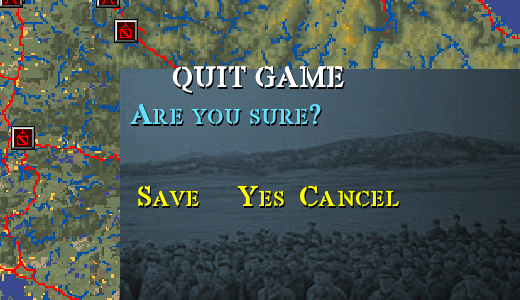
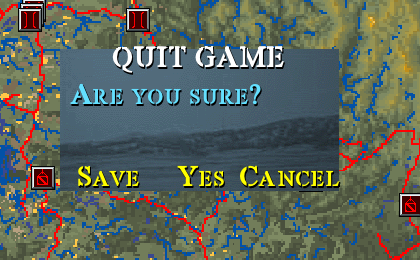
S156 (PO-47): clip the quit dialog's art to the dialog
Reported as "quit dialog is oversized". The dialog was not: the ART was.
RMdlDlg::OnPaint blits its background bitmap (FIL_MAP_ARMY) at natural size --
roughly 535x590 -- while the dialog reports 279x142, which its own trace line
prints on every open. So the message box appeared as a tall black slab with
Save/Yes/Cancel stranded near the top.

Windows clips a window's painting to the window; this port has to say so. The
art blit is now clipped to the dialog rect, and the box renders as a compact
"QUIT GAME / Are you sure? / Save Yes Cancel".

Introduced by S138's modal loop, which is mine -- the loop drew the dialog's own
OnPaint without the clip a real window would have had.

Gates: sysbox_exit still opens the confirmation at 279x142, locates "Yes",
clicks it and leaves the campaign (99.1% of the map area changes); parity 5/5
byte-identical.

diff --git a/SRC/MFC/RMDLDLG.CPP b/SRC/MFC/RMDLDLG.CPP
@@ -373,6 +373,8 @@ void* ma_gdi_screen_dc(void);
 void  ma_ole_draw_toolbar(void* dialog, void* screenHdc, int ox, int oy);
 int   ma_ole_dialog_extent(void* dialog, int* w, int* h);
 int   ma_gdi_dump_to(const char* path);
+void  ma_gdi_set_clip(void*, int, int, int, int, int*);
+void  ma_gdi_restore_clip(void*, const int*);
 void  ma_ole_remove_by_parent(void* parent);
 }
 
@@ -402,9 +404,18 @@ int RMdlDlg::DoModal()
 		ma_modal_pump();
 		void* hdc = ma_gdi_screen_dc();
 		int ox = 0, oy = 0;
+		/* S156 (PO-47): CLIP the art to the dialog.
+		   OnPaint blits the background bitmap (FIL_MAP_ARMY) at its NATURAL size, which is far
+		   bigger than the message box -- the dialog reports 279x142 and the art painted roughly
+		   535x590, so the box appeared as a tall black slab with the buttons stranded near its
+		   top. The PO reported it as "quit dialog is oversized", and it was: the art was, not the
+		   dialog. Windows clips a window's painting to the window; this port has to say so. */
+		int mclip[5];
+		ma_gdi_set_clip(hdc, m_maX, m_maY, m_maX + m_maW, m_maY + m_maH, mclip);
 		ma_gdi_set_viewport_org(hdc, m_maX, m_maY, &ox, &oy);
 		OnPaint();                         /* the dialog's own background art */
 		ma_gdi_set_viewport_org(hdc, ox, oy, 0, 0);
+		ma_gdi_restore_clip(hdc, mclip);
 		ma_ole_draw_toolbar(this, (void*)1, m_maX, m_maY);   /* its buttons and message text */
 		ma_gdi_present_screen();
 		/* MA_MODAL_SHOT=<path>: capture the modal once it has settled. MA_SHOT counts IDLES,

diff --git a/scrum.md b/scrum.md
@@ -209,6 +209,7 @@ Each release is a usable product; the train can stop at any release boundary and
 | PO-44 | As a player, a dialog's tick/close glyphs are drawn and clickable where they appear. | 5 | The check mark dismisses the dialog from where it is drawn. | 🔨 **Reported, not yet investigated.** *"check mark icons at upper right on dialog boxes often not drawn correctly"*, and on the weather dialog the PO could only dismiss it *"by clicking at upper right, but not at the corner"* — i.e. the tick's hit band and its drawn glyph disagree. This is the S82 rule (the click walk must mirror the paint walk) applied to the title bar's glyph bands; `ma_button_title_hit` computes the bands independently of the control's own draw. |
 | PO-45 | As a player, the fly screen's dialogs do not overlap. | 5 | Clicking an aircraft icon from the fly view gives readable dialogs. | 🔨 **Reported, not yet investigated.** Several dialogs are composited at the same origin (the PO's capture shows D.I.S., weather, squadron and briefing text all interleaved). Related to PO-17/PO-21's family: dialogs drawn at a shared origin rather than their own. |
 | PO-46 | As a player, the help text is large enough to read comfortably. | 2 | Optional: a larger face in the documentation panel. | 🔨 PO marked it optional. The panel already measures its font (S134); raising the body size is a one-line change plus a re-measure of the wrap. |
+| PO-47 | As a player, the quit confirmation is a message box, not a slab. | 2 | The dialog is the size it says it is. | ✅ **S156.** Reported as *"quit dialog is oversized"* — and it was the **art** that was oversized, not the dialog. `RMdlDlg::OnPaint` blits its background bitmap (`FIL_MAP_ARMY`) at natural size, roughly 535×590, while the dialog reports **279×142** (its own trace line says so), so the box appeared as a tall black slab with the buttons stranded near the top. Windows clips a window's painting to the window; the port has to say so. Now clipped to the dialog rect. Introduced by S138's modal loop — my own. Gate: the quit confirmation still opens at 279×142, "Yes" is located and clicked, and 99.1% of the map area changes. |
 | PO-25 | As a player, 3D objects keep their textures for a whole mission. | 8 | Aircraft, buildings and cockpit stay textured across a long attack sortie. | 🔨 **PO-reported 2026-08-15**: *"after a few passes all the objects turned white"* (screenshot: aircraft, buildings and panel all flat white; terrain still textured). White = UNTEXTURED, drawn in the vertex colour. **Two hypotheses tested and refuted:** texture-handle exhaustion (peaks at 1160 of 4096 over 3000 frames and **1208 over 12000 frames — identical with and without caching**, so the engine requests each texture once and the cache changes nothing) and `CreateTexture` failing (never fires in a 4000-frame flight). Not reproducible in an automated sortie, so a self-report now fires the first time the textured-batch share collapses. |
 | PO-26 | As a player, the map "?" help shows the right topic, formatted. | 3 | Help on a dialog opens that dialog's topic with readable layout. | ✅ **PO-reported 2026-08-15** on the Mission Results dialog: poorly formatted AND the wrong topic. The context-id → symbol → topic map from S114 evidently lacks this dialog's id, so it falls back to the index. | **S134:** the "?" now opens the dialog's OWN topic — `CDialog`'s ctor never recorded the template id as the help context (real MFC does), so every dialog reached help with no identity and fell through to `CMainFrame::OnCommandHelp`, which hardcodes `IDD_INTRODUCTION`. Verified: Player Log resolves `0x20114 -> HIDD_PLAYERLOG -> topic 30`. Body text is now wrapped by **measuring** the font instead of assuming 7px/char and a 13px line, and the column is capped at 1040px.
 | PO-27 | As a player, the map zoom button zooms the map. | 5 | The zoom control changes scale cleanly; no tiled/blocky corruption. | 🔨 **PO-reported 2026-08-15** (screenshot: map becomes coarse tiles with a seam). Supersedes PO-18 — same defect, now with a reproduction (the small two-boxes zoom icon). |
